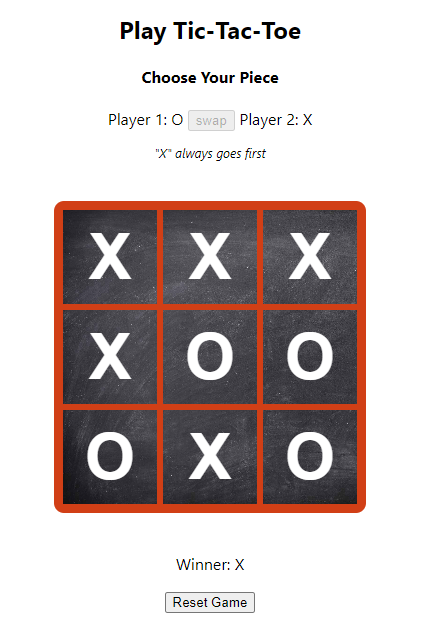
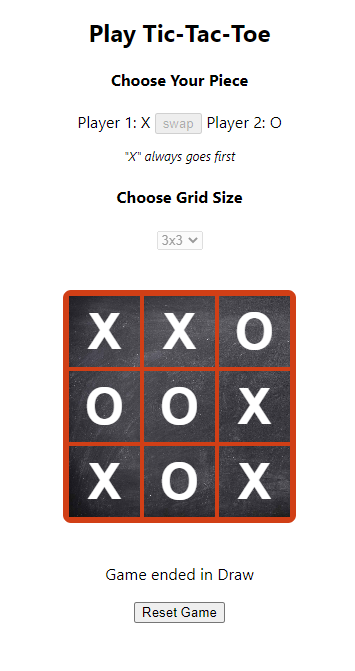
Done in 1 hr: New win calculation logic + custom grid size fn

Changed region(s): [[0.1239, 0.2795, 0.8676, 0.8075], [0.2169, 0.0311, 0.8056, 0.2484], [0.2789, 0.8385, 0.7127, 0.9627]]

diff --git a/src/components/Game/Game.js b/src/components/Game/Game.js
@@ -1,28 +1,31 @@
-import { React, useEffect, useState } from "react";
+import { useEffect, useState } from "react";
 import { Board } from "../Board";
-import { calculateWinner } from "../../utils/engine.js";
+import { getWin } from "../../utils/engine.js";
 
 const textCenter = {
-    textAlign: "center",
-}
+  textAlign: "center",
+};
 
 const textLegend = {
-    fontSize: "0.8rem",
-    fontStyle: 'italic',
-}
+  fontSize: "0.8rem",
+  fontStyle: "italic",
+};
 
 const gameStyle = {
-  width: 250,
   margin: "20px auto",
+  display: "block",
+  textAlign: "center",
+  verticalAlign: "top",
 };
 
 const Game = () => {
-  const [board, setBoard] = useState(Array(9).fill(null));
+  const [boardSize, setBoardSize] = useState(3);
+  const [board, setBoard] = useState(Array(boardSize * boardSize).fill(null));
   const [xIsNext, setXisNext] = useState(true);
   const [playerOnePiece, setPlayerOnePiece] = useState("X");
   const [playerTwoPiece, setPlayerTwoPiece] = useState("O");
   const [gameStarted, setGameStarted] = useState(false);
-  const winner = calculateWinner(board);
+  const winner = getWin(boardSize, board);
   const [draw, setDraw] = useState(false);
 
   const handleGameLogic = (i) => {
@@ -41,10 +44,11 @@ const Game = () => {
     if (!winner && board.every((element) => element !== null)) {
       setDraw(true);
     }
+    console.log("winner", winner);
   }, [board, winner]);
 
   const resetGame = () => {
-    setBoard(Array(9).fill(null));
+    setBoard(Array(boardSize * boardSize).fill(null));
     setDraw(false);
     setXisNext(true);
     setGameStarted(false);
@@ -52,7 +56,17 @@ const Game = () => {
 
   const renderMoves = () => {
     return (
-      <div style={{ textAlign: "center" }}>
+      <div style={textCenter}>
+        <p style={textCenter}>
+          {winner
+            ? `Winner: ` +
+              (playerOnePiece === board[winner[0]]
+                ? "Player One"
+                : "Player Two")
+            : ""}
+          {draw ? `Game ended in Draw` : ""}
+          {!draw && !winner ? `Next Move: ` + (xIsNext ? "X" : "O") : ""}
+        </p>
         <button onClick={resetGame}>Reset Game</button>
       </div>
     );
@@ -60,33 +74,53 @@ const Game = () => {
 
   const swapPlayerPieces = () => {
     if (playerOnePiece === "X") {
-        setPlayerOnePiece("O");
-        setPlayerTwoPiece("X");
+      setPlayerOnePiece("O");
+      setPlayerTwoPiece("X");
     } else {
-        setPlayerOnePiece("X");
-        setPlayerTwoPiece("O");
+      setPlayerOnePiece("X");
+      setPlayerTwoPiece("O");
     }
-  }
+  };
+
+  const changeGridSize = (e) => {
+    setBoardSize(parseInt(e.target.value));
+  };
+
+  useEffect(() => {
+    resetGame();
+  }, [boardSize]);
 
   return (
     <>
       <h2 style={textCenter}>Play Tic-Tac-Toe</h2>
+      {/*TODO: split ChoosePiece and ChooseGridSize into their separate components*/}
       <section style={textCenter}>
         <h4>Choose Your Piece</h4>
-        Player 1: {playerOnePiece} <button disabled={gameStarted} onClick={swapPlayerPieces}>swap</button> Player 2: {playerTwoPiece}
-          <p style={textLegend}>"X" always goes first</p>
+        Player 1: {playerOnePiece}{" "}
+        <button disabled={gameStarted} onClick={swapPlayerPieces}>
+          swap
+        </button>{" "}
+        Player 2: {playerTwoPiece}
+        <p style={textLegend}>"X" always goes first</p>
       </section>
-      <Board squares={board} onClick={handleGameLogic} />
-      <div style={gameStyle}>
-        <p style={{ textAlign: "center" }}>
-          {winner ? `Winner: ` + winner : ""}
-          {draw
-            ? `Game ended in Draw`
-            : ""}
-          {(!draw && !winner) ?  `Next Player: ` + (xIsNext ? "X" : "O") : ""}
-        </p>
-        {renderMoves()}
-      </div>
+      <section style={textCenter}>
+        <h4>Choose Grid Size</h4>
+        <select
+          disabled={gameStarted}
+          defaultValue={boardSize}
+          onChange={changeGridSize}
+        >
+          <option value="3">3x3</option>
+          <option value="4">4x4</option>
+          <option value="5">5x5</option>
+          <option value="6">6x6</option>
+          <option value="7">7x7</option>
+          <option value="8">8x8</option>
+          <option value="9">9x9</option>
+        </select>
+      </section>
+      <Board squares={board} winner={winner} onClick={handleGameLogic} />
+      <div style={gameStyle}>{renderMoves()}</div>
     </>
   );
 };

diff --git a/src/utils/engine.js b/src/utils/engine.js
@@ -1,4 +1,5 @@
-/*
+/**
+ *  !OLD!
  *  Method implemented from the official ReactJS Tutorial
  *  https://reactjs.org/tutorial/tutorial.html#declaring-a-winner
  *  */
@@ -20,4 +21,58 @@ export function calculateWinner(squares) {
     }
   }
   return null;
+}
+
+/**
+ * Idea based on code from Ecman
+ * https://codepen.io/ecman/full/WRvPMo/
+ * */
+export function getWins(boardSize) {
+  const moves = Array(boardSize + boardSize + 2).fill(null);
+  return moves.slice(0).map((value, index) => {
+    if (index < boardSize) {
+      // [index, index + 1, index + 2, index + 3]
+      return Array(boardSize)
+        .fill(null)
+        .map((val, ndx) => index * boardSize + ndx);
+    } else if (index < boardSize * 2) {
+      // [index  - boardSize, index, index + boardSize * 1, index + boardSize * 2]
+      // index = 2 5 9 13
+      return Array(boardSize)
+        .fill(null)
+        .map((val, ndx) =>
+          Math.max(index - boardSize, index - boardSize + boardSize * ndx)
+        );
+    } else {
+      // Diagonal top-right to bottom-left
+      // top-left to bottom-right
+      if (index % 2 === 0) {
+        // [(boardSize + 1) * 0, (boardSize + 1) * 1, (boardSize + 1) * 2, (boardSize + 1) * 3]
+        return Array(boardSize)
+          .fill(null)
+          .map((val, ndx) => (boardSize + 1) * ndx);
+      } else {
+        // [(boardSize - 1) * 1, (boardSize - 1) * 2, (boardSize - 1) * 3, (boardSize - 1) * 4]
+        return Array(boardSize)
+          .fill(null)
+          .map((val, ndx) => (boardSize - 1) * (ndx + 1));
+      }
+    }
+  });
+}
+
+export function calculateWin(items, sequences) {
+  return sequences.filter((sequence) => {
+    return sequence.reduce((acc, val) => {
+      return items[val] === acc ? acc : null;
+    }, items[sequence[0]])
+      ? true
+      : false;
+  });
+}
+
+export function getWin(boardSize, squares) {
+  const wins = getWins(boardSize);
+  const win = calculateWin(squares, wins);
+  return win.length ? win[0] : null;
 }

diff --git a/src/components/Board/Board.js b/src/components/Board/Board.js
@@ -1,26 +1,35 @@
-import { React } from "react";
 import { Square } from "../Square";
 import { colors } from "../../utils/colors";
 
 const boardStyle = {
-  border: `6px solid ${colors.orange}`,
-  borderRadius: "10px",
+  border: `4px solid ${colors.orange}`,
+  borderRadius: "8px",
   backgroundImage: "url('/blackboard.jpg')",
   backgroundSize: "cover",
-  width: 300,
-  height: 300,
-  display: "grid",
-  gridTemplate: "repeat(3, 1fr) / repeat(3, 1fr)",
   margin: "40px auto",
+  alignContent: "flex-start",
+  display: "flex",
+  flexFlow: "row wrap",
 };
 
 const Board = (props) => {
-  const { squares, onClick } = props;
+  const { squares, onClick, winner } = props;
+  const boardWidth = {
+    width: `${Math.sqrt(squares.length) * 75}px`,
+  };
   return (
-    <section style={boardStyle}>
-      {squares.map((square, i) => (
-        <Square key={i} value={square} onClick={() => onClick(i)} />
-      ))}
+    <section style={{ ...boardStyle, ...boardWidth }}>
+      {squares.map((square, i) => {
+        const highlight = winner && winner.includes(i);
+        return (
+          <Square
+            key={i}
+            value={square}
+            highlight={highlight}
+            onClick={() => onClick(i)}
+          />
+        );
+      })}
     </section>
   );
 };

diff --git a/src/components/Square/Square.js b/src/components/Square/Square.js
@@ -1,22 +1,31 @@
-import { React } from "react";
 import { colors } from "../../utils/colors";
 
 const squareStyle = {
-  border: `3px solid ${colors.orange}`,
-  background: "transparent",
+  border: `2px solid ${colors.orange}`,
+  backgroundColor: "transparent",
+  boxSizing: "border-box",
   cursor: "pointer",
   outline: "none",
-  fontSize: "4rem",
+  fontSize: "50px",
+  lineHeight: "70px",
+  height: "75px",
+  width: "75px",
+  textAlign: "center",
   fontWeight: "600",
   color: "#fff",
+  fontFamily: "sans-serif",
 };
 
 /* Tic-Tac-Toe Square Element */
 const Square = (props) => {
-  const { value, onClick } = props;
+  const { value, onClick, highlight } = props;
+
+  const backgroundStyles = {
+    backgroundColor: highlight ? colors.green : "transparent",
+  };
 
   return (
-    <button style={squareStyle} onClick={onClick}>
+    <button style={{ ...squareStyle, ...backgroundStyles }} onClick={onClick}>
       {value}
     </button>
   );

diff --git a/src/App.js b/src/App.js
@@ -1,8 +1,12 @@
-import "./App.css";
 import { Game } from "./components/Game";
-
 function App() {
-  return <Game />;
+  return (
+    <>
+      <div style={{ margin: "0 auto" }}>
+        <Game />
+      </div>
+    </>
+  );
 }
 
 export default App;
